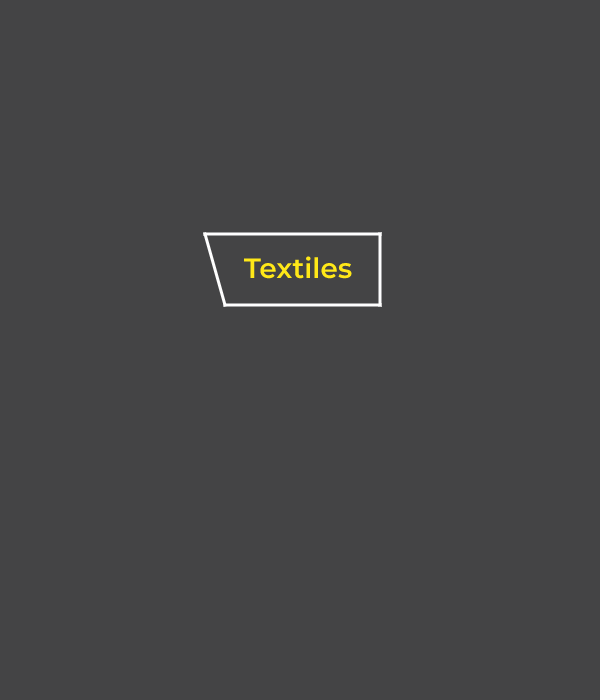
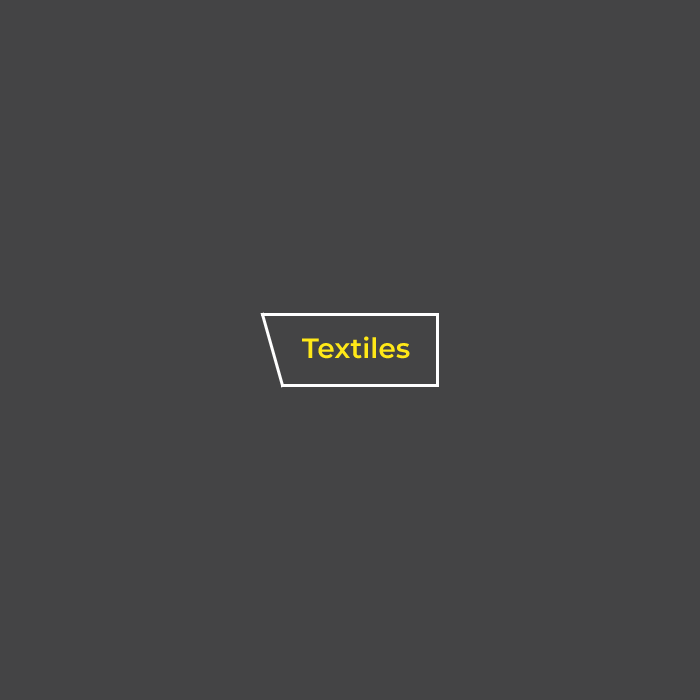
saving prelaunch 1

Changed region(s): [[0.33, 0.33, 0.66, 0.57]]

diff --git a/src/App.js b/src/App.js
@@ -31,7 +31,7 @@ function App() {
             <image id={"imageB"} href="Textiles.png" x="-30" y="-90" />
           </pattern>
           <pattern id={"imgBB"} width={"100%"} height={"100%"}>
-            <image id={"imageBB"} href={"Textiles-overlay.png"} x="-65" y="-75" />
+            <image id={"imageBB"} href={"Textiles-overlay.png"} x="-20" y="-120" />
           </pattern>
           <pattern id={"imgC"} width={"100%"} height={"100%"}>
             <image id={"imageC"} href="Harlem.png" x="-200" y="0" />

diff --git a/src/App.css b/src/App.css
@@ -79,11 +79,6 @@ svg line {
   width: 400px;
 }
 
-#imageBB {
-  height: 800px;
-  width: 800px;
-}
-
 #imageB {
   height: 800px;
   width: 800px;
